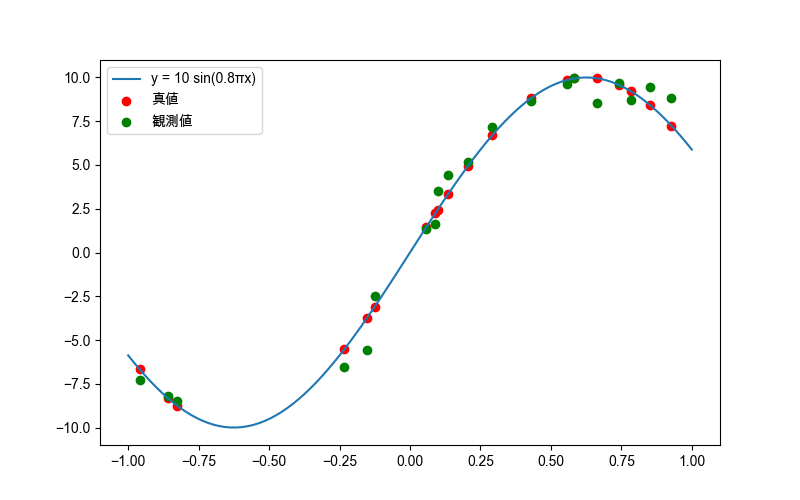
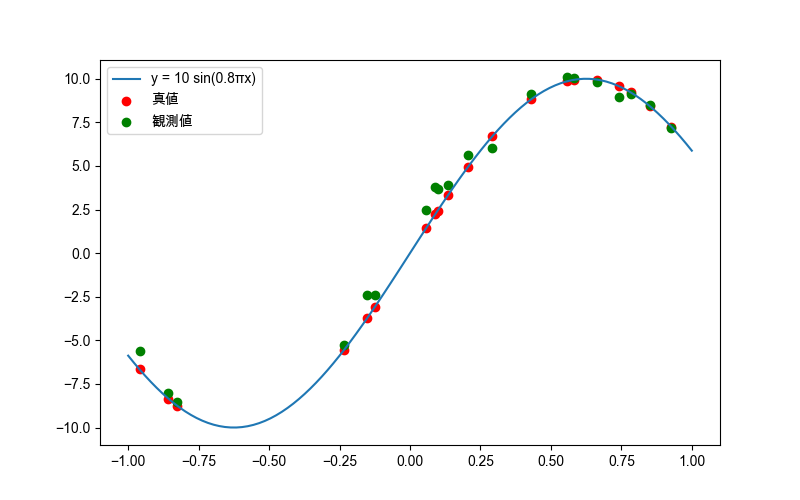
Week4 ex4 ex1.7

diff --git a/ex4/learn1.py b/ex4/learn1.py
@@ -1,0 +1,18 @@
+import dataset1
+
+# ex1.1
+dataset1.ex1_1()
+
+# ex1.2
+df = dataset1.ex1_2()
+
+# ex1.3
+df = dataset1.ex1_3(df)
+
+# ex1.4
+dataset1.ex1_4(df)
+
+# ex1.5
+loaded_df = dataset1.ex1_5()
+
+print(loaded_df)